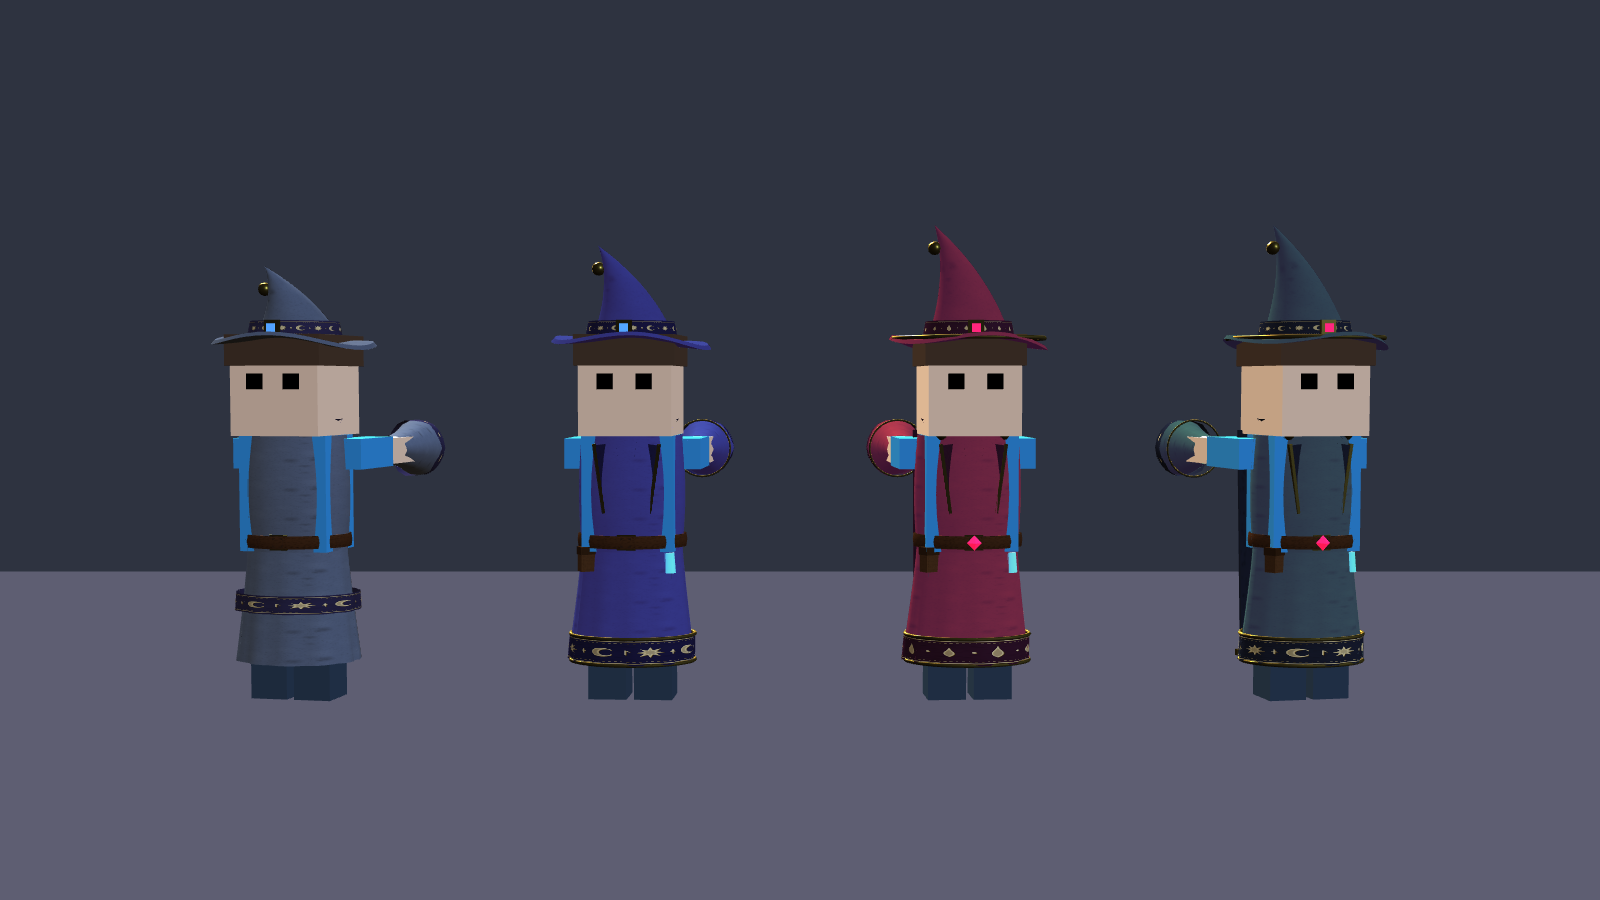
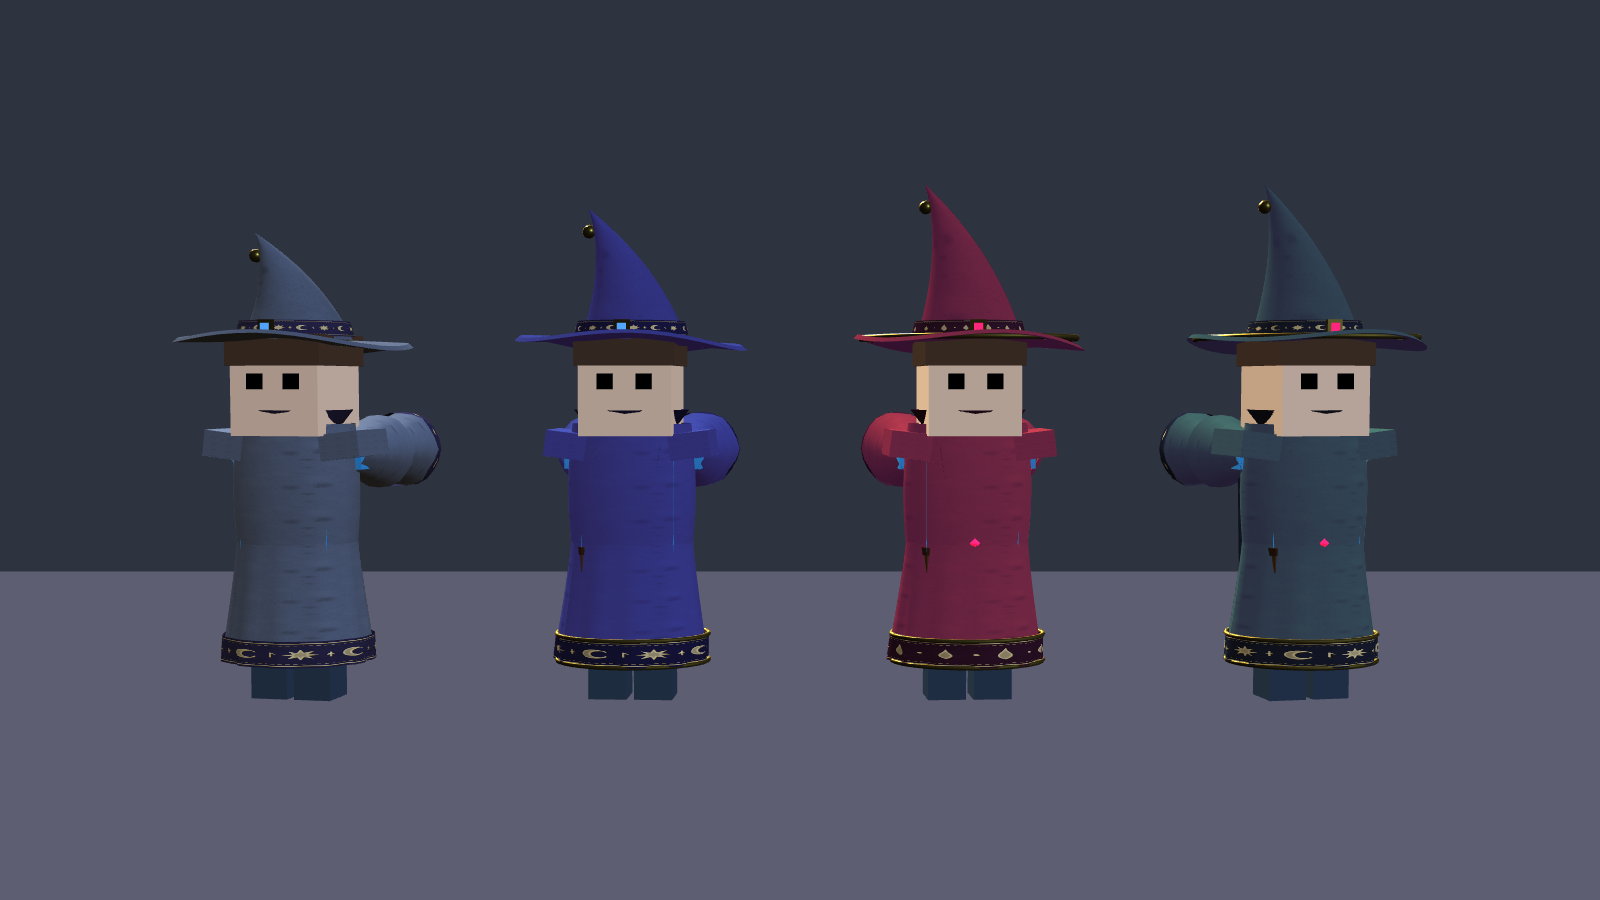
Мантия: пояс, пряжка, кошель и лацканы вынесены на поверхность
Claude-Session: https://claude.ai/code/session_01Mpy7cpNdw8Aqy5B2AHYZqb

diff --git a/src/entities/MageRobeLook.js b/src/entities/MageRobeLook.js
@@ -197,22 +197,22 @@ export function mageRobeParts(ch, code, color, hood, list, tier = 0) {
     // the collar and lapels
     put(T, COLLAR(), velvet, list, 0, 0, -0.02, 1, 1, 0.8);
     if (tier >= 1) for (const sx of [-1, 1]) {
-        bx(T, velvet, list, 0.3, 0.9, 0.05, sx * 0.22, 0.2, -0.45, 0, 0, -sx * 0.14);
-        bx(T, gold, list, 0.04, 0.9, 0.06, sx * 0.36, 0.2, -0.46, 0, 0, -sx * 0.14);
+        bx(T, velvet, list, 0.34, 1.0, 0.05, sx * 0.24, 0.2, -0.6, 0, 0, -sx * 0.14);
+        bx(T, gold, list, 0.04, 1.0, 0.06, sx * 0.4, 0.2, -0.61, 0, 0, -sx * 0.14);
     }
     // the belt: leather with a gold buckle, a pouch and a vial (middle and strong robes), a gem on a strong one
     const lea = cloth(0x4a2c18, leatherTex(), 4, 1);
-    put(T, TORUS(), lea, list, 0, -0.62, 0, 0.7, 0.7 * 0.78, 0.9, Math.PI / 2).scale.z = 3.2;
-    bx(T, gold, list, 0.24, 0.2, 0.06, 0, -0.62, -0.5);
-    bx(T, cloth(0x2a1a10, null, 1, 1), list, 0.14, 0.12, 0.07, 0, -0.62, -0.52);
+    put(T, TORUS(), lea, list, 0, -0.62, 0, 0.84, 0.64, 3.0, Math.PI / 2);
+    bx(T, gold, list, 0.26, 0.22, 0.07, 0, -0.62, -0.66);
+    bx(T, cloth(0x2a1a10, null, 1, 1), list, 0.15, 0.13, 0.08, 0, -0.62, -0.69);
     if (tier >= 1) {
         const pouch = cloth(0x5a3a20, leatherTex(), 1, 1);
-        bx(T, pouch, list, 0.3, 0.3, 0.16, 0.5, -0.86, -0.3, 0, 0.5, 0);
-        bx(T, cloth(0x3a2412, leatherTex(), 1, 1), list, 0.32, 0.1, 0.18, 0.5, -0.74, -0.3, 0, 0.5, 0);
-        put(T, geo('vial', () => new THREE.CylinderGeometry(0.07, 0.09, 0.26, 8)), lam('vial', { color: 0x6bd0ff, emissive: 0x2a90c0, emissiveIntensity: 0.6, transparent: true, opacity: 0.85 }), list, -0.52, -0.9, -0.28);
+        bx(T, pouch, list, 0.3, 0.3, 0.16, 0.62, -0.9, -0.5, 0, 0.6, 0);
+        bx(T, cloth(0x3a2412, leatherTex(), 1, 1), list, 0.32, 0.1, 0.18, 0.62, -0.77, -0.5, 0, 0.6, 0);
+        put(T, geo('vial', () => new THREE.CylinderGeometry(0.07, 0.09, 0.26, 8)), lam('vial', { color: 0x6bd0ff, emissive: 0x2a90c0, emissiveIntensity: 0.6, transparent: true, opacity: 0.85 }), list, -0.62, -0.92, -0.5);
     }
     if (tier >= 2) {
-        put(T, geo('gem', () => new THREE.OctahedronGeometry(0.1)), lam('gemR', { color: 0xd02050, emissive: 0xc01040, emissiveIntensity: 0.9 }), list, 0, -0.62, -0.56);
+        put(T, geo('gem', () => new THREE.OctahedronGeometry(0.1)), lam('gemR', { color: 0xd02050, emissive: 0xc01040, emissiveIntensity: 0.9 }), list, 0, -0.62, -0.74);
         const cape = cloth(_tint(velvetC, 0.9), velvetTex(), 1, 1, { side: true });
         bx(T, cape, list, 1.3, 3.0, 0.05, 0, -0.7, 0.5, 0.05); // a cape down the back
         bx(T, gold, list, 1.34, 0.08, 0.07, 0, -2.18, 0.52);
